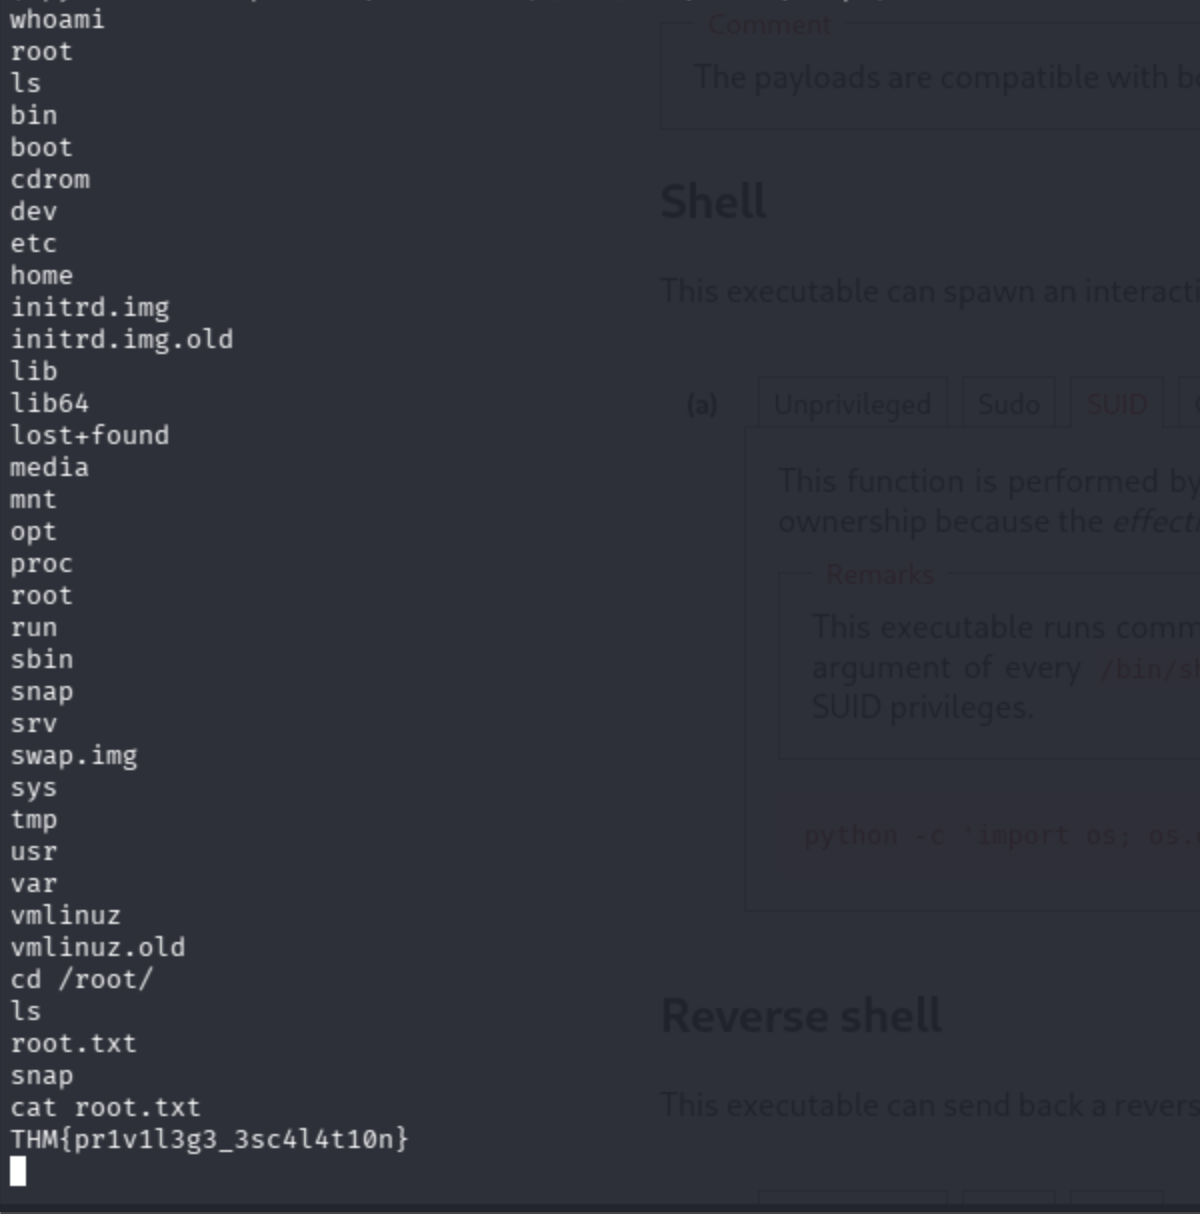
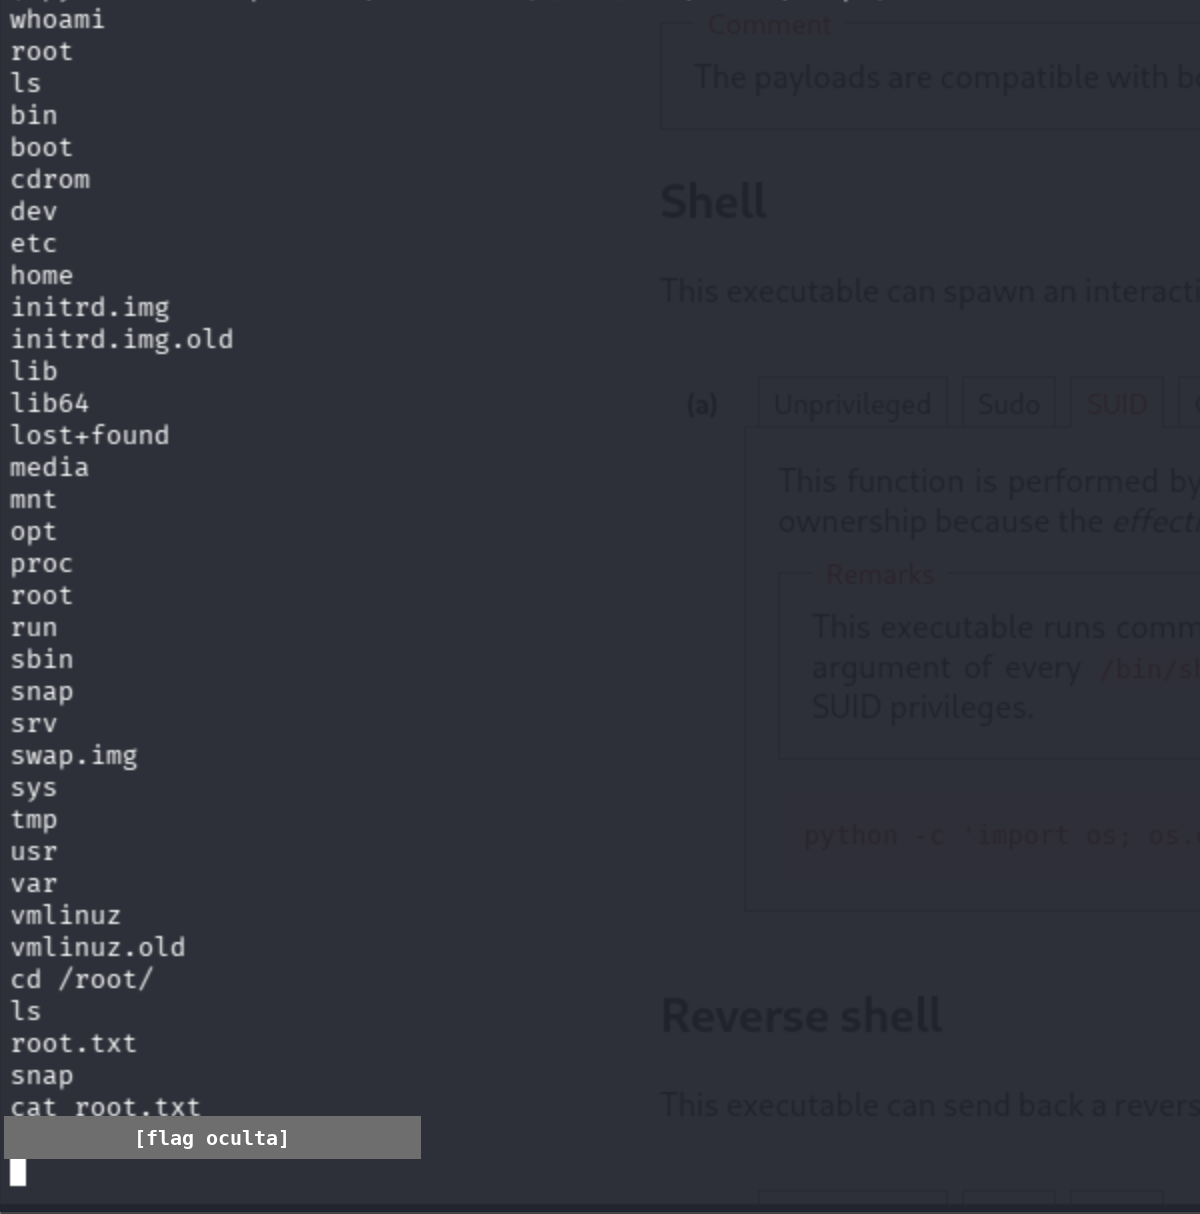
Ocultar flags, agregar índice de writeups y unificar Shared Secrets

Changed region(s): [[0.0, 0.9143, 0.37, 0.9753]]

diff --git a/writeups/picoctf/Shared_Secrets/shared_secrets.md b/writeups/picoctf/Shared_Secrets/shared_secrets.md
@@ -1,0 +1,55 @@
+# Shared Secrets
+**picoCTF (CyLab Security Academy) / Cryptography / Medio / 14 de octubre de 2026**
+
+## Resumen
+
+El desafío involucra un sistema de cifrado donde un mensaje fue protegido utilizando una clave compartida derivada del algoritmo de intercambio Diffie-Hellman, seguida de un cifrado XOR simétrico. El objetivo fue aprovechar la filtración accidental de una clave privada para recalcular el secreto compartido y descifrar el mensaje original.
+
+## Reconocimiento
+
+Al analizar los archivos proporcionados (`source.py` y `message.txt`), identifiqué la estructura del algoritmo de Diffie-Hellman:
+
+- Se utilizan los parámetros públicos `p` (módulo primo) y `g` (base).
+- El servidor genera un secreto `a` y publica `A`.
+- El cliente genera un secreto `b` y publica `B`.
+- El secreto compartido se calcula matemáticamente como $A^b \pmod p$ o $B^a \pmod p$.
+
+![Análisis del código fuente](assets/source_code_recon.png)
+
+Al revisar el contenido de `message.txt`, noté que el script guardó por error la variable `b` (el secreto privado del cliente) junto con la variable pública del servidor `A` y el texto cifrado `enc`.
+
+## Proceso de resolución
+
+Con el secreto privado del cliente ($b$) expuesto, la seguridad de todo el intercambio colapsa. Desarrollé un script en Python (`solver.py`) para replicar el último paso del algoritmo:
+
+1. **Extracción de datos:** Extraje los valores masivos de `p`, `A` y el secreto filtrado `b` del archivo de texto.
+2. **Reconstrucción de la clave:** Recalculé la clave compartida utilizando la función de potenciación modular eficiente de Python: `shared = pow(A, b, p)`.
+3. **Inversión del cifrado:** Sabiendo que el cifrado final se realizó iterando una operación XOR entre el texto plano y la llave derivada (`shared % 256`), apliqué la operación matemática inversa. Dado que el operador XOR es simétrico ($A \oplus B \oplus B = A$), aplicar la misma llave sobre el ciphertext revierte los bytes a su estado original.
+
+## Solución
+
+Escribí y ejecuté el siguiente script de desencriptación en Python:
+
+```python
+p = 2188545828481232917915233525806579818209760678972220490921380750542193455665345717562182558864409541451041964360901352616297280654258287473010375935406137903689564954762347824228761657501247248979653142698163854882116855521952627898416433209318642163322021284188040749653581645061299781147685165607754045402815547537
+A = 529022054504968019469968111961692103333962097204384321062327406113469798583084528471911087369430603184315616289885944538403549216006196112599856159910375335838601931262259012757936708816266131815368447196183194865289491972488369456495842428832190461512811822688595599282473173695956797450916384282506132120013828366
+b = 806108241018714272971792803761488787583500782708354296181179175643414634637904065955198182937625129233790050616136051643206357851994861572647233251265904450054206496643678855386739080010799844605476667118318730605723614207809884834764849344555331442139243115610235608110485560140584263429781350962431123512110941522 
+
+# Recalcular secreto compartido
+shared = pow(A, b, p)
+
+# Cifrado en hex a bytes
+enc_bytes = bytes.fromhex('b7b5b7b2b3bbafadb2be89a5e5b5a4e5a289b3e5efe3e2b4b3b4ab')
+
+# Operación XOR inversa
+decrypted = bytes([x ^ (shared % 256) for x in enc_bytes])
+print(decrypted.decode('utf-8'))
+```
+
+**Flag:** `academy{...}` *(oculta intencionalmente)*
+
+## Qué aprendí
+
+- **Teoría de Diffie-Hellman:** Reafirmé cómo las claves públicas (`A` y `B`) viajan por la red de forma segura basándose en la dificultad de resolver el problema del logaritmo discreto, mientras que los secretos (`a` y `b`) jamás deben salir de la máquina local.
+
+- **Auditoría de código y gestión de secretos:** El cifrado puede ser matemáticamente irrompible, pero una mala implementación humana (como registrar claves privadas en logs o archivos de salida) destruye por completo el modelo de seguridad.

diff --git a/README.md b/README.md
@@ -6,6 +6,17 @@ My background includes hands-on experience in IT Operations (Enterprise ITSM, Gr
 
 This repository serves as a centralized log of my technical writeups, custom scripts, and lab reports.
 
+## 📝 Writeups
+
+| Nombre | Plataforma | Categoría | Dificultad | Enlace |
+|---|---|---|---|---|
+| RootMe | TryHackMe | Web, Privilege Escalation | Fácil | [Ver writeup](writeups/tryhackme/RootMe/Rootme.md) |
+| Pickle Rick | TryHackMe | Web Hacking - Boot2Root | Fácil | [Ver writeup](writeups/tryhackme/pickle_rick/pickle_rick.md) |
+| Shared Secrets | picoCTF (CyLab Security Academy) | Cryptography | Medio | [Ver writeup](writeups/picoctf/Shared_Secrets/shared_secrets.md) |
+| StegoRSA | picoCTF (CyLab Security Academy) | Cryptography - Forensics | Medio | [Ver writeup](writeups/picoctf/stego_rsa/stego_rsa.md) |
+| Binary Digits | picoCTF (CyLab Security Academy) | Forensics | Fácil | [Ver writeup](writeups/picoctf/binary_digits.md) |
+| Caesar Reloaded | Hack4u CTF | Criptografía | Fácil | [Ver writeup](writeups/ctf/hack4u/caesar_reloaded.md) |
+
 ## 📂 Repository Structure
 
 ```text
@@ -14,15 +25,15 @@ cybersecurity-portfolio/
 ├── writeups/
 │   ├── ctf/          # Capture The Flag challenge documentation
 │   ├── tryhackme/    # Walkthroughs for THM rooms
-│   └── picoctf/      # picoCTF challenge solutions
-├── scripts/          # Automation, enumeration, and analysis scripts
-└── reports/          # Formal vulnerability and incident response reports
+│   └── picoctf/      # picoCTF (CyLab Security Academy) challenge solutions
+├── scripts/          # (próximamente) Automation, enumeration, and analysis scripts
+└── reports/          # (próximamente) Formal vulnerability and incident response reports
 ```
 
 ## 🗺 Current Focus (Learning Roadmap)
 
 - **Phase 0 (Completed):** Linux Fundamentals, Networking basics, OverTheWire (Bandit up to L17), TryHackMe Pre-Security.
-- **Phase 1 (In Progress):** TryHackMe Complete Beginner (CS101) & Jr. Penetration Tester.
+- **Phase 1 (In Progress):** TryHackMe Cyber Security 101 & Jr. Penetration Tester.
 - **Phase 2 (Upcoming):** Blue Team operations (SOC Level 1, Splunk/ELK, MITRE ATT&CK, Sigma Rules), CyberDefenders, and Python for SOC.
 
 ## 🛠 Core Stack & Environment

diff --git a/writeups/picoctf/stego_rsa/stego_rsa.md b/writeups/picoctf/stego_rsa/stego_rsa.md
@@ -1,5 +1,5 @@
 # StegoRSA
-**PicoCTF / Cryptography - Forensics / Medio / 12 de octubre de 2026**
+**picoCTF (CyLab Security Academy) / Cryptography - Forensics / Medio / 12 de octubre de 2026**
 
 ## Resumen
 El reto entregó un archivo cifrado (`flag.enc`) y una imagen. El objetivo fue realizar un análisis esteganográfico a la imagen para recuperar una llave privada RSA oculta en los metadatos y utilizarla para desencriptar el mensaje final.
@@ -23,7 +23,7 @@ Inicié el análisis verificando la naturaleza de los archivos descargados:
 ## Solución
 Al leer el archivo resultante de OpenSSL o el output en consola, obtuve el mensaje original en texto claro.
 ![Desencriptación con OpenSSL](assets/openssl_decrypt.png)
-- **Flag:** academy{rs4_k3y_1mg_42380180}
+- **Flag:** `academy{...}` *(oculta intencionalmente)*
 
 ## Qué aprendí
 - **Metadatos como vector de esteganografía:** Herramientas como `exiftool` son fundamentales en la fase de reconocimiento; los comentarios EXIF son un escondite muy común.

diff --git a/writeups/picoctf/binary_digits.md b/writeups/picoctf/binary_digits.md
@@ -1,5 +1,5 @@
 # Binary Digits
-**PicoCTF / Forensics / Fácil / 12 de octubre de 2026**
+**picoCTF (CyLab Security Academy) / Forensics / Fácil / 12 de octubre de 2026**
 
 ## Resumen
 El desafío proporciona un archivo sin extensión que aparenta ser ruido binario (solo 1s y 0s). El objetivo fue identificar la verdadera naturaleza del archivo y decodificar su contenido para revelar una imagen oculta con la flag.
@@ -18,7 +18,7 @@ Al descargar el archivo `digits.bin`, evité asumir su formato y utilicé la ter
 
 ## Solución
 Al abrir la imagen resultante en el entorno de Kali, se visualiza directamente la bandera del desafío.
-- **Flag:** academy{h1dd3n_1n_th3_b1n4ry_1b150ee9}
+- **Flag:** `academy{...}` *(oculta intencionalmente)*
 
 ## Qué aprendí
 - **Nunca confiar en las extensiones de los archivos.** La herramienta `file` es el primer paso obligatorio en Forense.

diff --git a/writeups/tryhackme/pickle_rick/pickle_rick.md b/writeups/tryhackme/pickle_rick/pickle_rick.md
@@ -25,9 +25,9 @@ Inicié el reconocimiento con un escaneo de Nmap que reveló los puertos 22 (SSH
 ![Tercer ingrediente](assets/third_ingredient.png)
 
 ## Solución
-- **Ingrediente 1:** `mr. meeseek hair`
-- **Ingrediente 2:** `1 jerry tear`
-- **Ingrediente 3:** `fleeb juice`
+- **Ingrediente 1:** *(oculto intencionalmente)*
+- **Ingrediente 2:** *(oculto intencionalmente)*
+- **Ingrediente 3:** *(oculto intencionalmente)*
 
 ## Qué aprendí
 - **Importancia del Fuzzing con extensiones:** Buscar solo directorios con Gobuster omite archivos críticos como `login.php`. El uso de `-x` es obligatorio.

diff --git a/writeups/ctf/hack4u/caesar_reloaded.md b/writeups/ctf/hack4u/caesar_reloaded.md
@@ -24,7 +24,7 @@ Para resolver este reto sin recurrir a la fuerza bruta a ciegas, apliqué un **A
 
 ## Solución
 Tras aplicar el desplazamiento de 19 posiciones a toda la cadena, la bandera obtenida fue:
-`H4U{caesar_no_es_suficientemente_seguro}`
+`H4U{...}` *(oculta intencionalmente)*
 
 ## Qué aprendí
 - **Cifrado César:** Reforcé el concepto de algoritmos de sustitución monoalfabética por desplazamiento, uno de los métodos de cifrado más antiguos.
